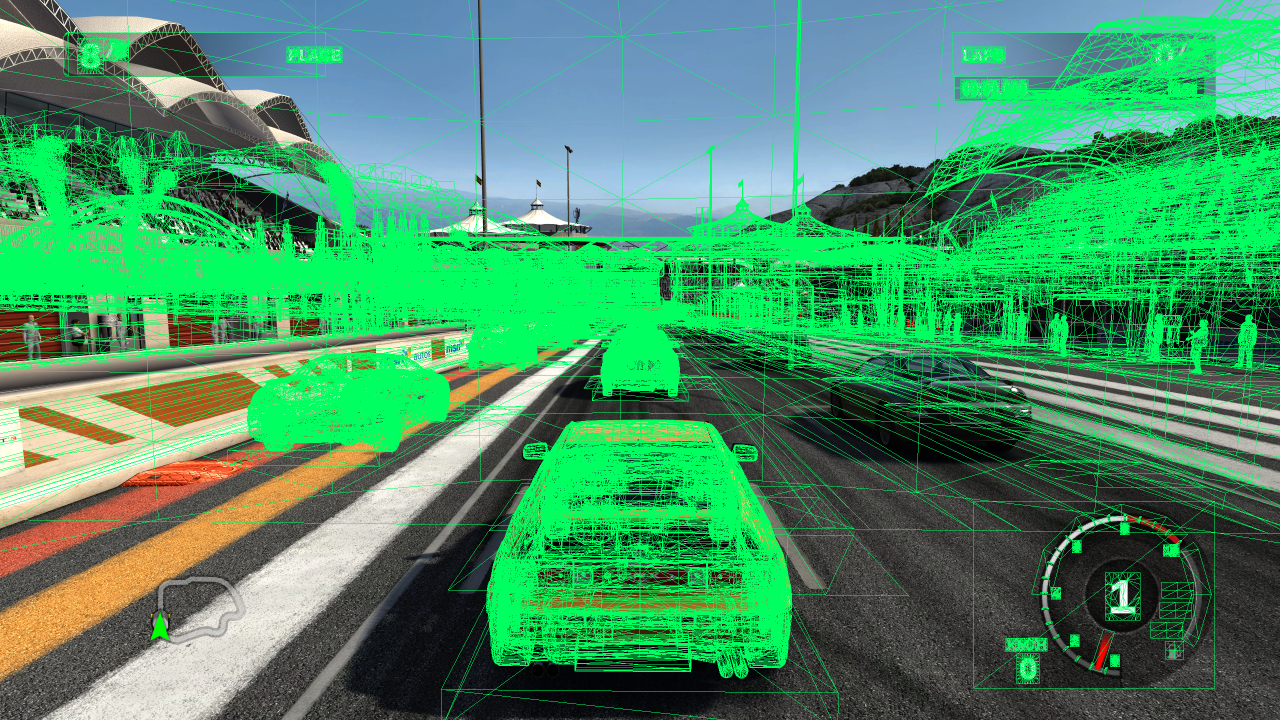
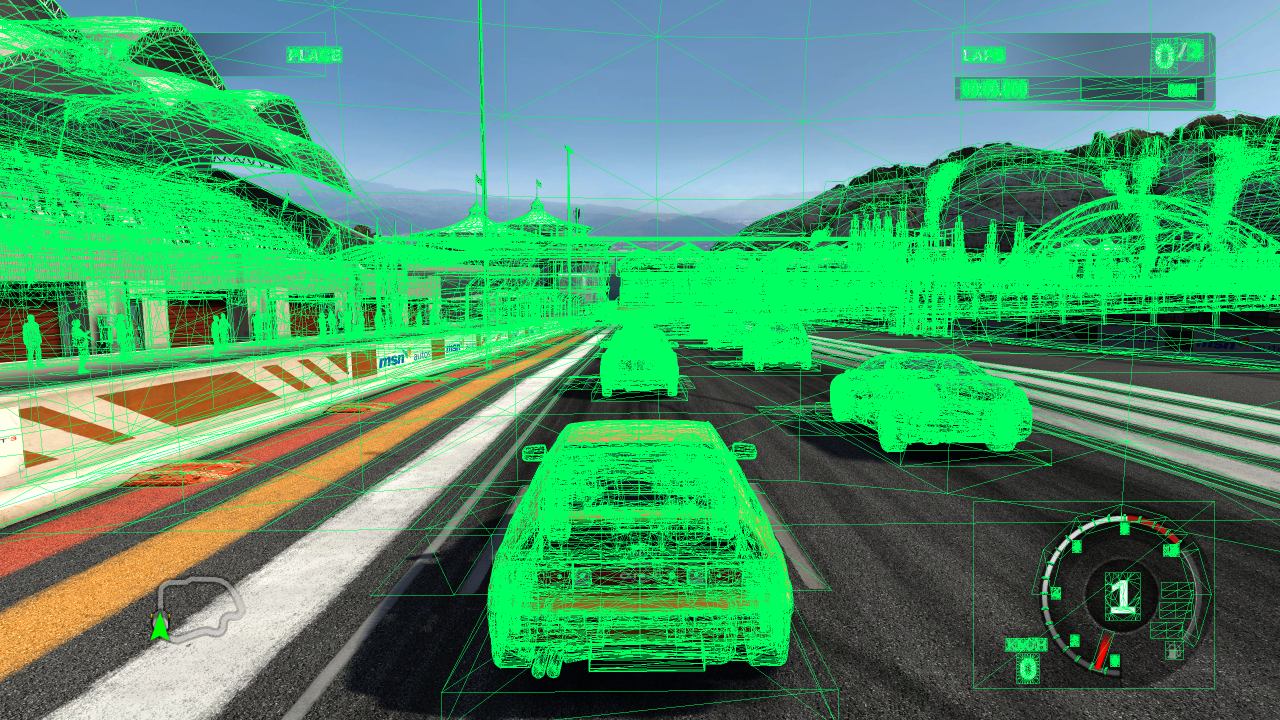
M1 stage 2: FM3's scene target is rotated 180 deg, not flipped in y
The overlay and the glTF camera now flip scene-pass draws in x as well. The 'mirrored draws' open item was
this: the left grandstand, its crowd and the pit people now land where the game has them, as does the dark
car in the right lane. Spotted by the user. Open: the silver car in the left lane is missing.

diff --git a/tools/fir_world.py b/tools/fir_world.py
@@ -209,8 +209,8 @@ def drop_reflections(objs):
 
 
 def write_gltf(out, objs, cam):
-    # Handedness: clip y of FM3's scene is screen-down (the scene target is flipped later), so the real up is -up.
-    right, up, fwd = cam['right'], -cam['up'], cam['forward']
+    # FM3's scene target reaches the screen rotated 180 deg: clip x is screen-left and clip y screen-down.
+    right, up, fwd = -cam['right'], -cam['up'], cam['forward']
     S = np.eye(4)
     if np.linalg.det(np.stack([right, up, fwd])) > 0:  # x right, y up, z forward: left-handed -> mirror X
         S[0, 0] = -1.0
@@ -262,7 +262,7 @@ def write_gltf(out, objs, cam):
     C = np.eye(4)
     C[:3, 0], C[:3, 1], C[:3, 2], C[:3, 3] = right, up, -fwd, pos
     nodes.append({'camera': 0, 'matrix': C.T.ravel().tolist(), 'name': 'capture_camera'})
-    # Self-check: each node's first vertex through the glTF camera against the capture's clip position (scene y flipped).
+    # Self-check: each node's first vertex through the glTF camera against the capture's clip position (scene rotated 180 deg).
     V = np.linalg.inv(C)
     fy = 1 / math.tan(math.radians(cam['yfov_deg']) / 2)
     fx = fy / cam['aspect']
@@ -274,7 +274,7 @@ def write_gltf(out, objs, cam):
         v = V @ (Wg_ @ np.append(P_[0], 1.0))
         if v[2] >= 0:
             continue
-        errs.append(max(abs(fx * v[0] / -v[2] - c[0] / c[3]), abs(fy * v[1] / -v[2] + c[1] / c[3])))
+        errs.append(max(abs(fx * v[0] / -v[2] + c[0] / c[3]), abs(fy * v[1] / -v[2] + c[1] / c[3])))
     if errs:
         e = np.array(errs)
         print(f'self-check through the glTF camera: median error {np.median(e):.2e} NDC, {np.mean(e < 1e-3) * 100:.1f}% under 1e-3')

diff --git a/tools/fir_frame.py b/tools/fir_frame.py
@@ -239,10 +239,12 @@ def main():
                 if c is None or not np.all(np.isfinite(c)) or c[3] <= 1e-6:
                     pts.append(None)
                     continue
+                sx = (c[0] / c[3] * xs + xo) * kx
                 sy = (c[1] / c[3] * ys + yo) * ky
                 if flip and d['seq'] < last_resolve:
-                    sy = sh - sy  # drawn into a target that a later pass copies to the screen upside down (FM3)
-                pts.append(((c[0] / c[3] * xs + xo) * kx, sy))
+                    # drawn into a target that a later pass copies to the screen rotated 180 deg (FM3)
+                    sx, sy = sw - sx, sh - sy
+                pts.append((sx, sy))
             for t in g['triangles'][:30000]:
                 for a, b in ((t[0], t[1]), (t[1], t[2]), (t[2], t[0])):
                     pa, pb = pts[a], pts[b]

diff --git a/M1.md b/M1.md
@@ -101,15 +101,17 @@ the 144 point lists and 2 draws that fetch textures in the vertex shader. Overla
 frozen boot ([`tools/fir_frame.py`](tools/fir_frame.py) `--shot`), the wireframes match the game: cars, grandstand,
 pit building, track edges, hills, tents, the HUD and the rev counter
 ([`m1/stage2-transforms/overlay-grid-single.png`](m1/stage2-transforms/overlay-grid-single.png)). FM3 draws its scene
-into a target that a later pass copies to the screen upside down: draws up to the scene pass's resolve (the longest
-stretch of draws without a resolve) are flipped in y (`--flip-scene`); later passes (post, HUD) are not.
+into a target that a later pass copies to the screen **rotated 180 degrees** (flipped in x and y): draws up to the
+scene pass's resolve (the longest stretch of draws without a resolve) are rotated (`--flip-scene`); later passes
+(post, HUD) are not. (A y-only flip looked right at first, because the grid is nearly symmetric: the user caught it.
+The giveaway was the dark car in the right lane, at the exact mirror position of the silver car in the left lane.)
 
 **Camera and world.** [`tools/fir_world.py`](tools/fir_world.py) takes the camera's view-projection from the most
 common clip-from-object matrix among draws whose atoms are the captured position itself (world-space geometry: 168
 draws). Decomposed: **53.00 deg vertical field of view, aspect 1.7778, near plane 0.300 (infinite far), rotation error
-1.5e-9**; FM3's world is Y-up. Every other draw's object-to-world matrix is W = VP^-1 M, from the x, y and w rows (w is
+1.5e-9**; FM3's world is Y-up; clip x is screen-left and clip y screen-down for the scene pass. Every other draw's object-to-world matrix is W = VP^-1 M, from the x, y and w rows (w is
 linear view depth; 2 draws write their own depth, the sky dome trick, and are left out). Of the scene pass's 3-atom
-draws: 892 rigid, 239 rigid with a mirror (FM3's car bodies are authored mirrored), 204 with non-uniform scale
+draws: 892 rigid, 239 rigid with a mirror in the object matrix (mostly car bodies), 204 with non-uniform scale
 (compressed meshes); maps over 2 or 4-8 atoms (about 330 draws) are not exported yet.
 
 **glTF and Godot.** `fir_world.py --gltf` writes the scene pass as glTF: 747 meshes in object space (the atoms'
@@ -119,44 +121,16 @@ projects every node's first vertex through the glTF camera against the capture (
 matrix keeps a positive determinant. [`godot/viewer/world_view.gd`](godot/viewer/world_view.gd) loads it at run time
 and renders it from the captured camera
 ([`m1/stage2-transforms/godot-vs-game.png`](m1/stage2-transforms/godot-vs-game.png): the game above, Godot below,
-untextured): cars, drivers, wheels, the lamp post, bridge, tents and hills land where the game has them.
+untextured): the left grandstand with its crowd, the people at the garages, cars, drivers, the lamp post,
+bridge, tents and hills land where the game has them.
 
 **Open items:**
-- **Some draws land on the wrong side of the camera.** The left grandstand's roof and its crowd, and the people in
-  front of the left garages, come out on the right (and the left roof's arches, in part, ~200 px too low). Established:
-  - They are real on-screen objects: booting the grid with `REGPU_SKIP_SHADERS=6ee601730a7f9f87` (the skinned crowd
-    and people shader) removes the left-grandstand crowd and the left pit people in the game; with
-    `88ce6b817de9911b` (a plain world shader: `pos * c1 + c2`, then dp4 with a per-draw matrix in c128-c131) most of the
-    stands, pit buildings and trees disappear. Script: `m0/results-2026-11-22/skipshot.ps1` ( boot, shot, `env REGPU_SKIP_SHADERS`, shot).
-  - Of that world shader's 332 draws most land right (bridge, pit buildings, tents); 13 (e.g. 1274-1330) get a clean
-    rigid W (det +1) placing the stand ~45 m right of the camera, 8 m ahead: exactly where a camera turned 180 deg about
-    the vertical would see the real left stand (149, 225) <-> (59, 209) around the camera at (104, 217).
-  - Not the evaluator (that shader is linear), not the scalar-constant negate rule (`FIR_SC_NEG`), not tiling, window
-    offsets, viewport or scissors (all full-screen), not stale constants (the tap reads the draw worker's register
-    copy, which follows the command processor in order; constant loads go through the register file).
-  - Not a separate planar-reflection pass either: `fir_world.py`'s reflection search (one world mirror R shared by
-    world-space draws) finds none.
-  - The misplaced sections are instances of a modular stand: draw 1284's geometry is drawn again by 1339 (49 m further
-    along z), 1583 and 1601 (turned 90 deg), all rigid. Their draws are ordinary colour+depth draws (mode 4, colour mask
-    0xf), and the per-draw register replay includes resolve deltas. Several are tiny (6, 8, 16 vertices) next to full
-    sections: they may be LOD or fade instances that the pixel shader kills (invisible in game, real in the capture).
-    Testing that needs the pixel shader's kill condition against its constants.
-  - **Narrowed further (pixel shader skip):** `REGPU_SKIP_SHADERS=b09a7f5611212683` (a pixel shader of 47 of those world
-    draws) removes, in the game, the left grandstand's seats, the garage interiors and the tents. The offline placement
-    puts none of its big sections on the left stand: 1342 and 1344 (1,276 and 1,780 vertices, 55 m ahead) land at
-    screen x ~1128 of 1280, the mirror image of the left stand (~152). So for these draws the captured constants
-    (c128-c131) do not give what the GPU drew. Ruled out: draw/register pairing (2,663 = 2,663, in order), the draw
-    worker's register copy (values copied at command-processor time), resolve deltas, host hooks (FM3 sets no
-    `onDraw`/`rewriteShader`), alpha test, viewport, scissors. Still open: whether ReGPU changes these draws' constants
-    or vertices on another path, or the game patches the constant memory after the packet (a constant load whose source
-    changes before ReGPU reads it would differ between the register file and ReGPU's constant ring).
-  - Next: dump c128-c131 of draw 1284 against the main view-projection (is it VP times a 180-degree turn about the
-    camera, i.e. a second camera?), and look at what FM3 renders with it (an environment/reflection view drawn into
-    the same target before the main view, then covered?). If it is a second camera, those draws are not part of the
-    main view and should be classified by camera, not by pass.
-- One car (the dark one in the right lane) has no wireframe; its draws are probably among the misplaced ones above.
+- **The silver car in the left lane is missing** (no wireframe, not in the glTF). All draws but point lists and 2
+  vertex-texture draws are placed, so its draws are either not in this frame's capture or among those. Next: find
+  draws whose geometry matches the other cars' and land nowhere on screen.
 - Maps over 4-8 atoms (skinned or morphed meshes) need their object space defined before export.
 - The sky dome and other own-depth draws should become a sky in the scene API rather than geometry.
+- `fir_world.py`'s reflection search (`drop_reflections`) finds nothing in this frame and can probably go.
 
 Tools for this: [`tools/fir_disasm.py`](tools/fir_disasm.py) (a captured vertex shader's control flow, fetches and
 ALU), `fir_frame.py --seqs <file>` (overlay only the listed draws), `fir_world.py --targets` / `--seqs`.

diff --git a/ARCHITECTURE.md b/ARCHITECTURE.md
@@ -102,7 +102,7 @@ capture verified, 98.6-100 % of draws stable across frames by content, draw orde
 
 **M1 stage 2 transforms done 2026-11-22** (M1.md): vertex shaders run offline give 94.5 % of a frame's draws their
 clip positions (matching a screenshot); one camera (53.00 deg, exact rotation) and per-object world matrices recovered;
-the frame exports as glTF and renders in Godot from the captured camera. Open: some draws (part of the left grandstand, its crowd) land as if seen by a camera turned 180 deg.
+the frame exports as glTF and renders in Godot from the captured camera. FM3's scene target reaches the screen rotated 180 deg. Open: one car missing from the capture's placed draws.
 
 M0–M2 do not touch FM4 work and can start immediately. M1's tap is passive, so it
 cannot slow ReGPU when disabled.
